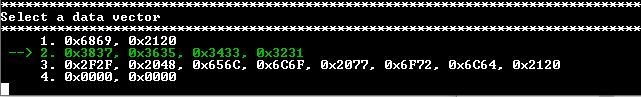
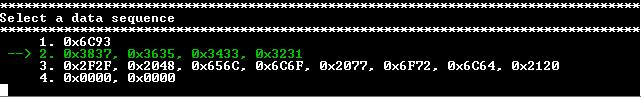
Removed all mentions of data vector and other small fixes

Changed region(s): [[0.0, 0.0, 1.0, 1.0], [0.0, 0.3711, 0.8736, 0.866], [0.0, 0.8351, 0.0312, 0.866]]

diff --git a/dspic33ck-curiosity-crc-advanced.X/print.h b/dspic33ck-curiosity-crc-advanced.X/print.h
@@ -97,12 +97,12 @@ void print32BitArray(uint8_t array[], uint8_t arrayLength);
 void printSeparator(uint8_t length);
 
 /**
- * @brief        Prints the sub-menu for selecting the desired data vector.
+ * @brief        Prints the sub-menu for selecting the desired data sequence.
  * @param[in]    settings - struct that contains all of the boolean variables for all of the 
  *               settings
- * @param[in]    inputData - array that holds pointers to all four 8-bit data vectors
+ * @param[in]    inputData - array that holds pointers to all four 8-bit data sequences
  * @param[in]    inputDataSizes - array that holds the number of words in all 8-bit data
- *               vectors
+ *               sequences
  * @return       none
  */
 void printDataSubMenu(CRC_SETTINGS settings, uint8_t* inputData[], uint8_t inputDataSizes[]);
@@ -148,8 +148,8 @@ void printLine32BitDependent(const char* lineTitle, bool settingValue, bool is32
 void printMenu(uint8_t* inputData[], uint8_t inputDataSize[]);
 
 /**
- * @brief        Prints the transmission vector
- * @param[in]    transmission - vector to be printed
+ * @brief        Prints the transmission sequence
+ * @param[in]    transmission - sequence to be printed
  * @param[in]    inputDataSize - Number of 8-bit words in the transmission
  * @return       none
  */

diff --git a/dspic33ck-curiosity-crc-advanced.X/print.c b/dspic33ck-curiosity-crc-advanced.X/print.c
@@ -163,7 +163,7 @@ void printSeparator(uint8_t length)
 void printDataSubMenu(CRC_SETTINGS settings, uint8_t* inputData[], uint8_t inputDataSizes[])
 {
     printSeparator(MAX_LINE_WIDTH);
-    (void) printf("Select a data vector\r\n");
+    (void) printf("Select a data sequence\r\n");
     printSeparator(MAX_LINE_WIDTH);
     
     for(uint8_t i = 0; i < (uint8_t)4; i++)
@@ -240,7 +240,7 @@ void printMenu(uint8_t* inputData[], uint8_t inputDataSize[])
     (void) printf("6. Inject virtual transmission error: %s%s%s\r\n", TEXT_COLOR_GREEN, 
             crcSettings.hasTransmissionError ? "Yes" : "No", TEXT_COLOR_DEFAULT);
     
-    (void) printf("7. Select Data Vector\r\n   Current: ");
+    (void) printf("7. Select Data Sequence\r\n   Current: ");
     
     if(crcSettings.isCRC32Bit)
     {

diff --git a/README.md b/README.md
@@ -80,7 +80,7 @@ The code example uses the [MPLAB® Code Configurator Melody CRC Driver](https://
 
 The MPLAB® XC16 compiler provides users with compiler optimization options. These options allow the user to speed up their code. This CRC Advanced Demo is functional at all optimization levels. 
 
-The optimization settings can be found in the project properties. Go to Project Properties -> XC16 -> Optimization Level to change optimization level for the project. The table below shows the optimization results for hardware and software CRC calculations with the default settings and data1. 
+The optimization settings can be found in the project properties. Go to Project Properties -> XC16 -> Optimization Level to change optimization level for the project. The table below shows the optimization results for hardware and software CRC calculations with the default settings. 
 
 | Optimization Level | Hardware CRC (Default Settings) | Software CRC (Default Settings) |
 |---|---|---|
@@ -96,7 +96,9 @@ The optimization settings can be found in the project properties. Go to Project 
 
 ## CRC Settings
 
-The CRC calculations performed in this code example have different settings that can be toggled at runtime. **Note:** Settings toggled at runtime will NOT be reflected in the MCC Melody CRC driver "Easy View."
+The CRC calculations performed in this code example have different settings that can be toggled at runtime.
+
+**Note:** Settings toggled at runtime will NOT be reflected in the MCC Melody CRC driver.
 
 - Shift direction: The direction the data is shifted through the registers. Can start with the most significant bit (MSB) or the least significant bit (LSB)
 - Initial Value: The initial value of the CRC result. Can theoretically be anything, but traditionally is either zero (0x0000 for 16-bit or 0x00000000 for 32-bit) or -1 (0xFFFF for 16-bit or 0xFFFFFFFF for 32-bit).
@@ -104,10 +106,12 @@ The CRC calculations performed in this code example have different settings that
 - Final XOR Value: The value XOR'd with the CRC result after the calculation and any reverses. Can theoretically be anything, but traditionally is either zero (0x0000 for 16-bit or 0x00000000 for 32-bit) or -1 (0xFFFF for 16-bit or 0xFFFFFFFF for 32-bit).
 - Polynomial: Generator polynomial used in the calculation of the CRC value. Many effective polynomials exist. This code example uses the polynomials for CRC-16-CCITT (0x1021) and CRC-32 (0x04C11DB7).
 - Data: The input data for which the CRC value is calculated. Can be any value of any length. Four data strings can be used in this code example:
-  - 0x6c, 0x93 (default data in the MCC Melody CRC Driver Simulator)
-  - 0x38, 0x37, 0x36, 0x35, 0x34, 0x33, 0x32, 0x31 ("87654321")
+  - 0x6c, 0x93 (default value configured in MCC Melody CRC Driver Simulator)
+  - **\*** 0x38, 0x37, 0x36, 0x35, 0x34, 0x33, 0x32, 0x31 ("87654321")
   - 0x2F, 0x2F, 0x20, 0x48, 0x65, 0x6C, 0x6C, 0x6F, 0x20, 0x77, 0x6F, 0x72, 0x6C, 0x64, 0x21, 0x20 ("// Hello world! ")
   - 0x00, 0x00, 0x00, 0x00 (All null characters)
+
+**\*** Default data sequence
 
 ### Online Calculator
 
@@ -153,7 +157,7 @@ Upon building, a menu will be printed in the terminal program displaying the set
 
 **\*** Inject virtual transmission error - allows the user to force an error in the virtual transmission. It XOR's the first byte by 0x10. This demonstrates the CRC's error detection capabilities.
 
-If "7" is selected, the data submenu will be printed. Here, the user can select the data sequence to be used in the calculations. Using this menu, data1 can be switched to, like in the image:
+If "7" is selected, the data submenu will be printed. Here, the user can select the data sequence to be used in the calculations. Using this menu, "2" can be entered, switching to the second data sequence.
 
 ![CRC Advanced Demo Data Sub-menu](images/advanced_data_submenu.JPG)
 
